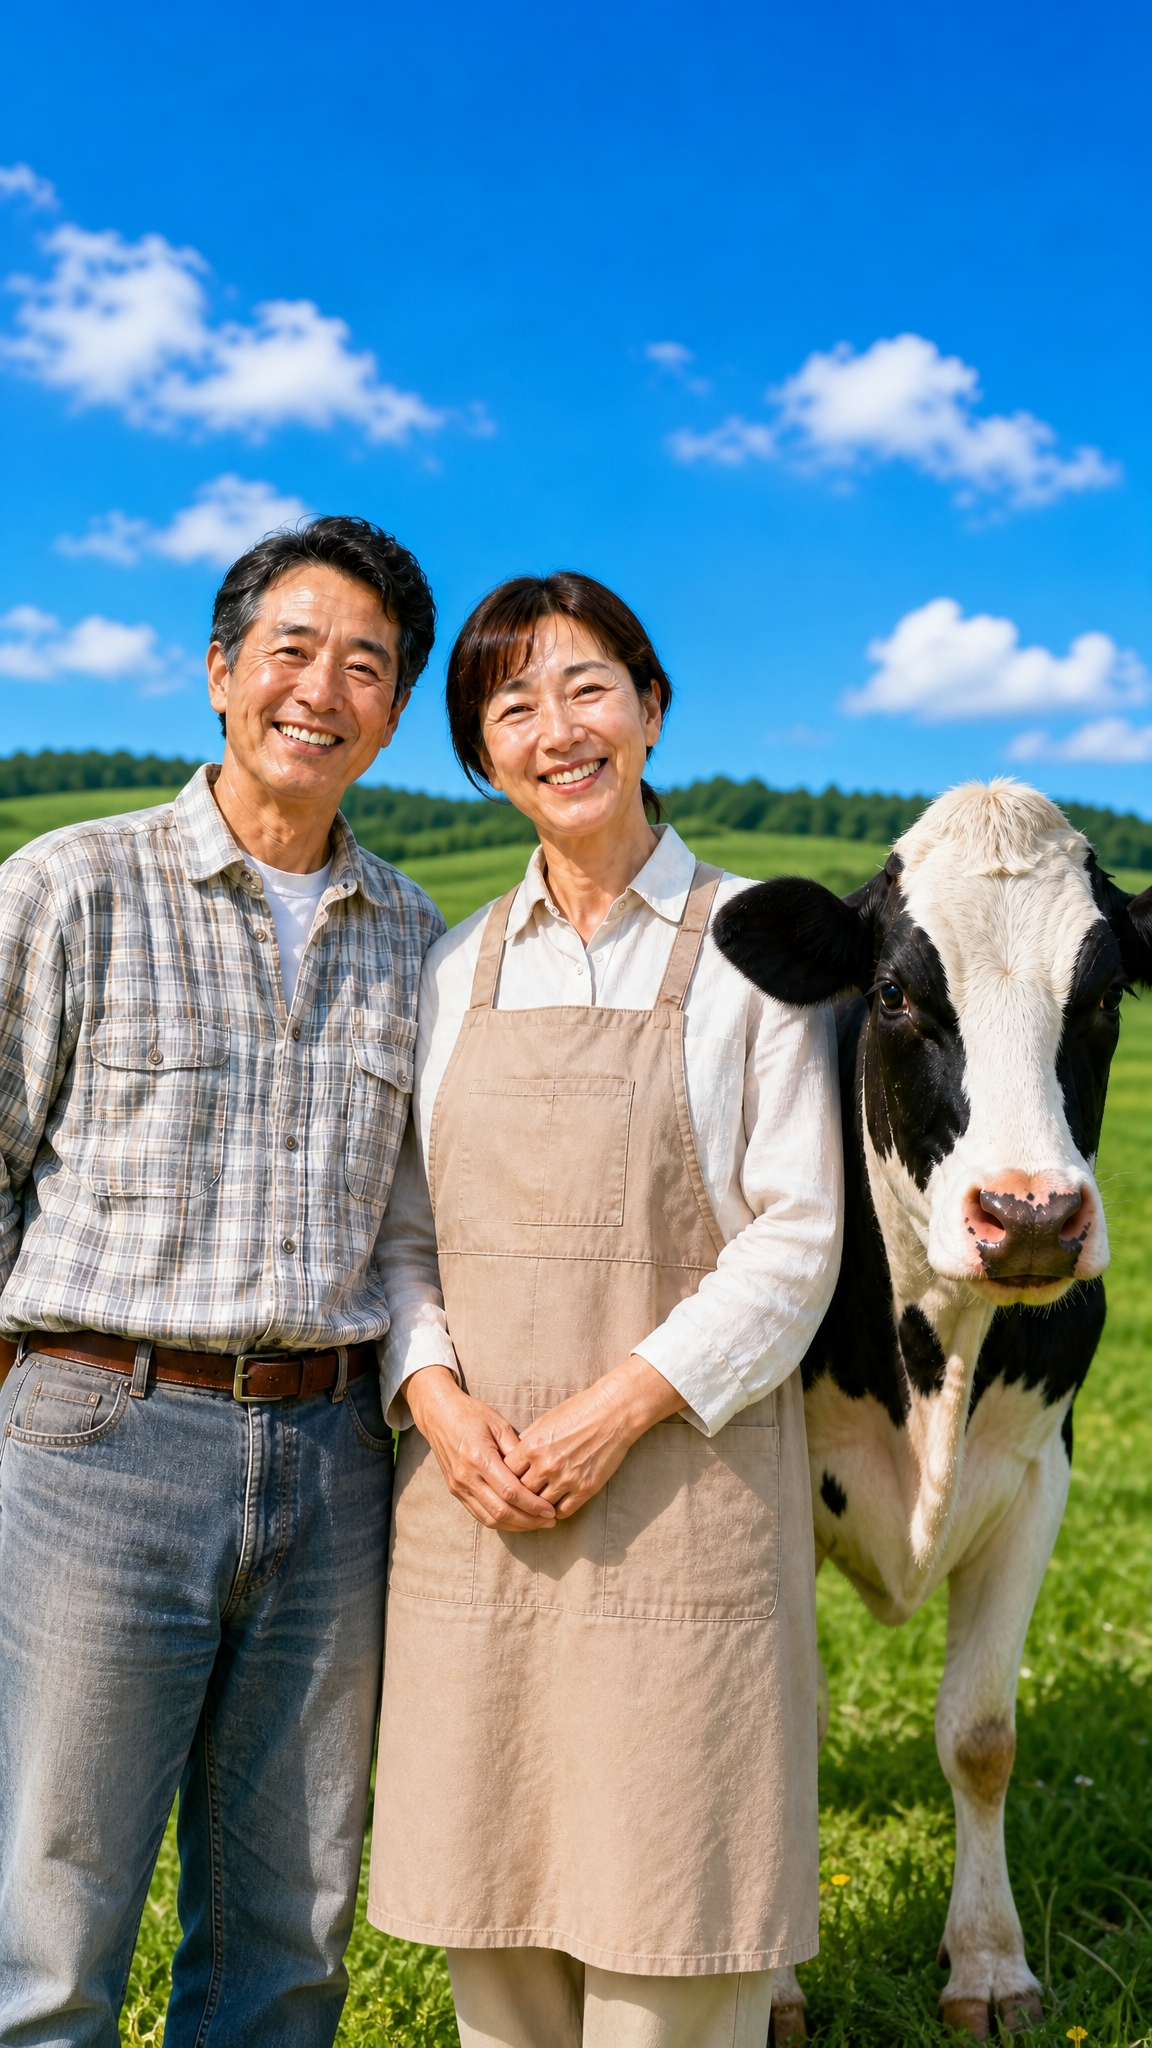
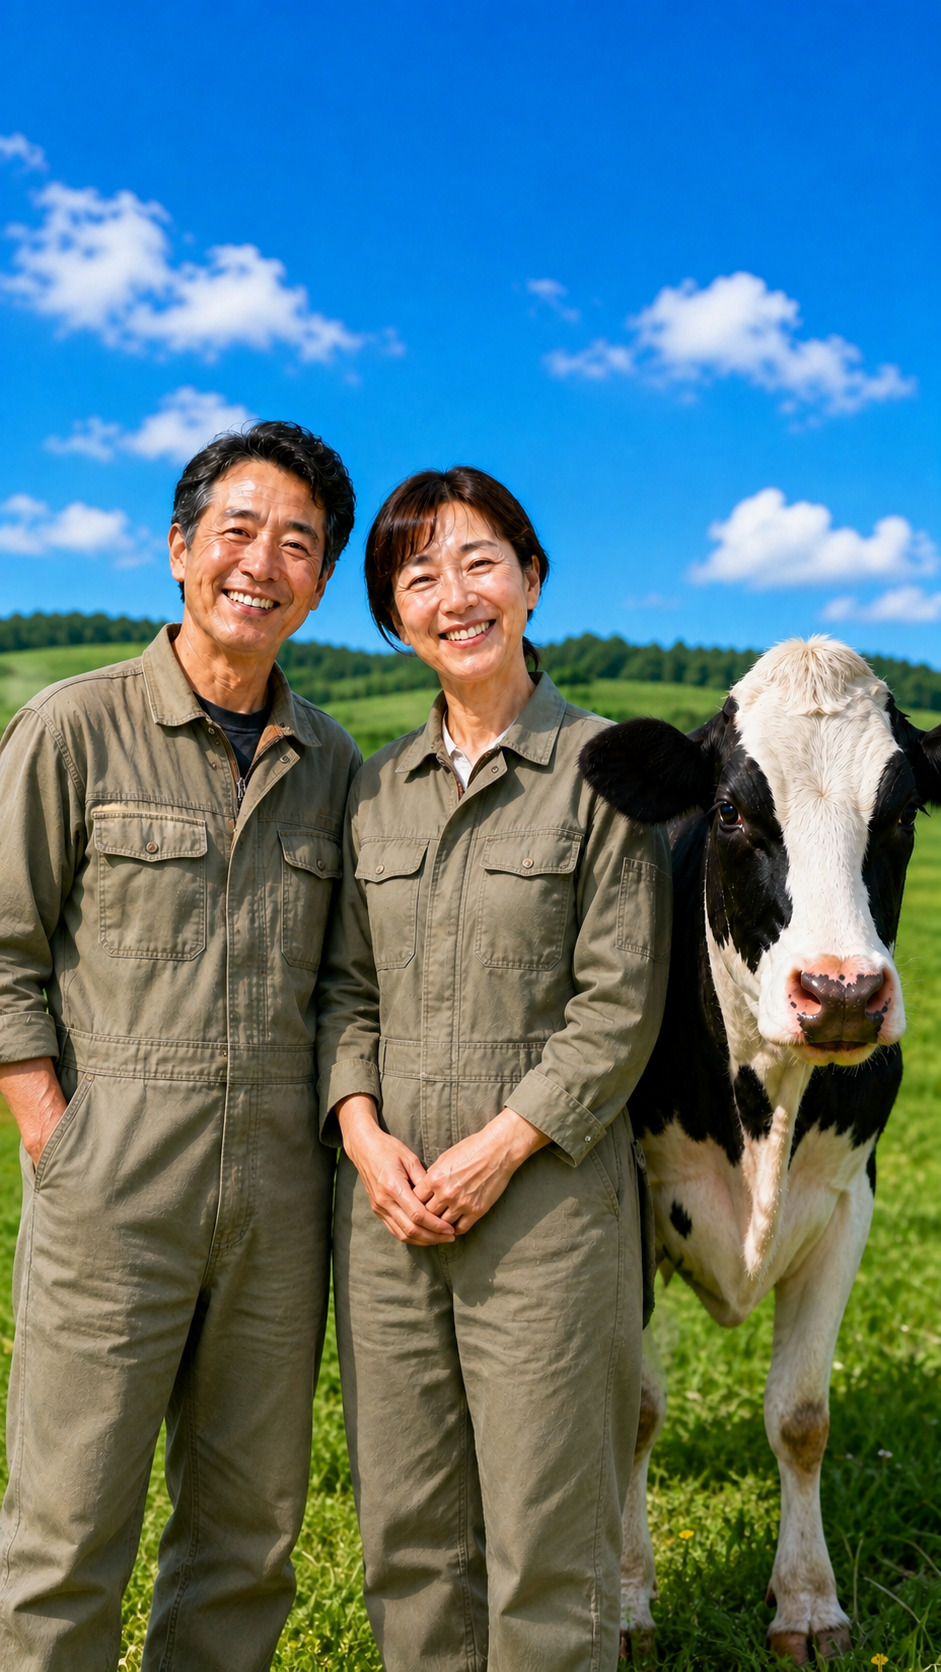
Add files via upload

diff --git a/index.html b/index.html
@@ -658,7 +658,7 @@
             </div>
             <div class="info-item">
               <div class="info-label">日時</div>
-              <div class="info-value"><strong>2026年8月1日(土) 12:45〜18:00</strong><div class="info-sub">会社説明は13:00〜、個別面接は14:10より順次</div></div>
+              <div class="info-value"><strong>2026年8月31日(月) 13:00〜18:00</strong><div class="info-sub">会社説明は13:15〜、個別面接は13:55より順次</div></div>
             </div>
             <div class="info-item">
               <div class="info-label">開催形式</div>
@@ -775,7 +775,7 @@
 
         <div class="schedule-shell timeline">
           <div class="timeline-item fade-up delay-1">
-            <div class="timeline-time">12:30</div>
+            <div class="timeline-time">12:45</div>
             <div class="timeline-dot"></div>
             <div class="timeline-content">
               <div class="glass-card timeline-box">
@@ -785,7 +785,7 @@
             </div>
           </div>
           <div class="timeline-item fade-up delay-1">
-            <div class="timeline-time">12:45</div>
+            <div class="timeline-time">13:00</div>
             <div class="timeline-dot"></div>
             <div class="timeline-content">
               <div class="glass-card timeline-box">
@@ -795,7 +795,7 @@
             </div>
           </div>
           <div class="timeline-item fade-up delay-2">
-            <div class="timeline-time">13:00</div>
+            <div class="timeline-time">13:15</div>
             <div class="timeline-dot"></div>
             <div class="timeline-content">
               <div class="glass-card timeline-box">
@@ -805,7 +805,7 @@
             </div>
           </div>
           <div class="timeline-item fade-up delay-2">
-            <div class="timeline-time">13:30</div>
+            <div class="timeline-time">13:45</div>
             <div class="timeline-dot"></div>
             <div class="timeline-content">
               <div class="glass-card timeline-box">
@@ -815,7 +815,7 @@
             </div>
           </div>
           <div class="timeline-item fade-up delay-3">
-            <div class="timeline-time">13:40</div>
+            <div class="timeline-time">13:55</div>
             <div class="timeline-dot emphasis"></div>
             <div class="timeline-content">
               <div class="glass-card timeline-box">
